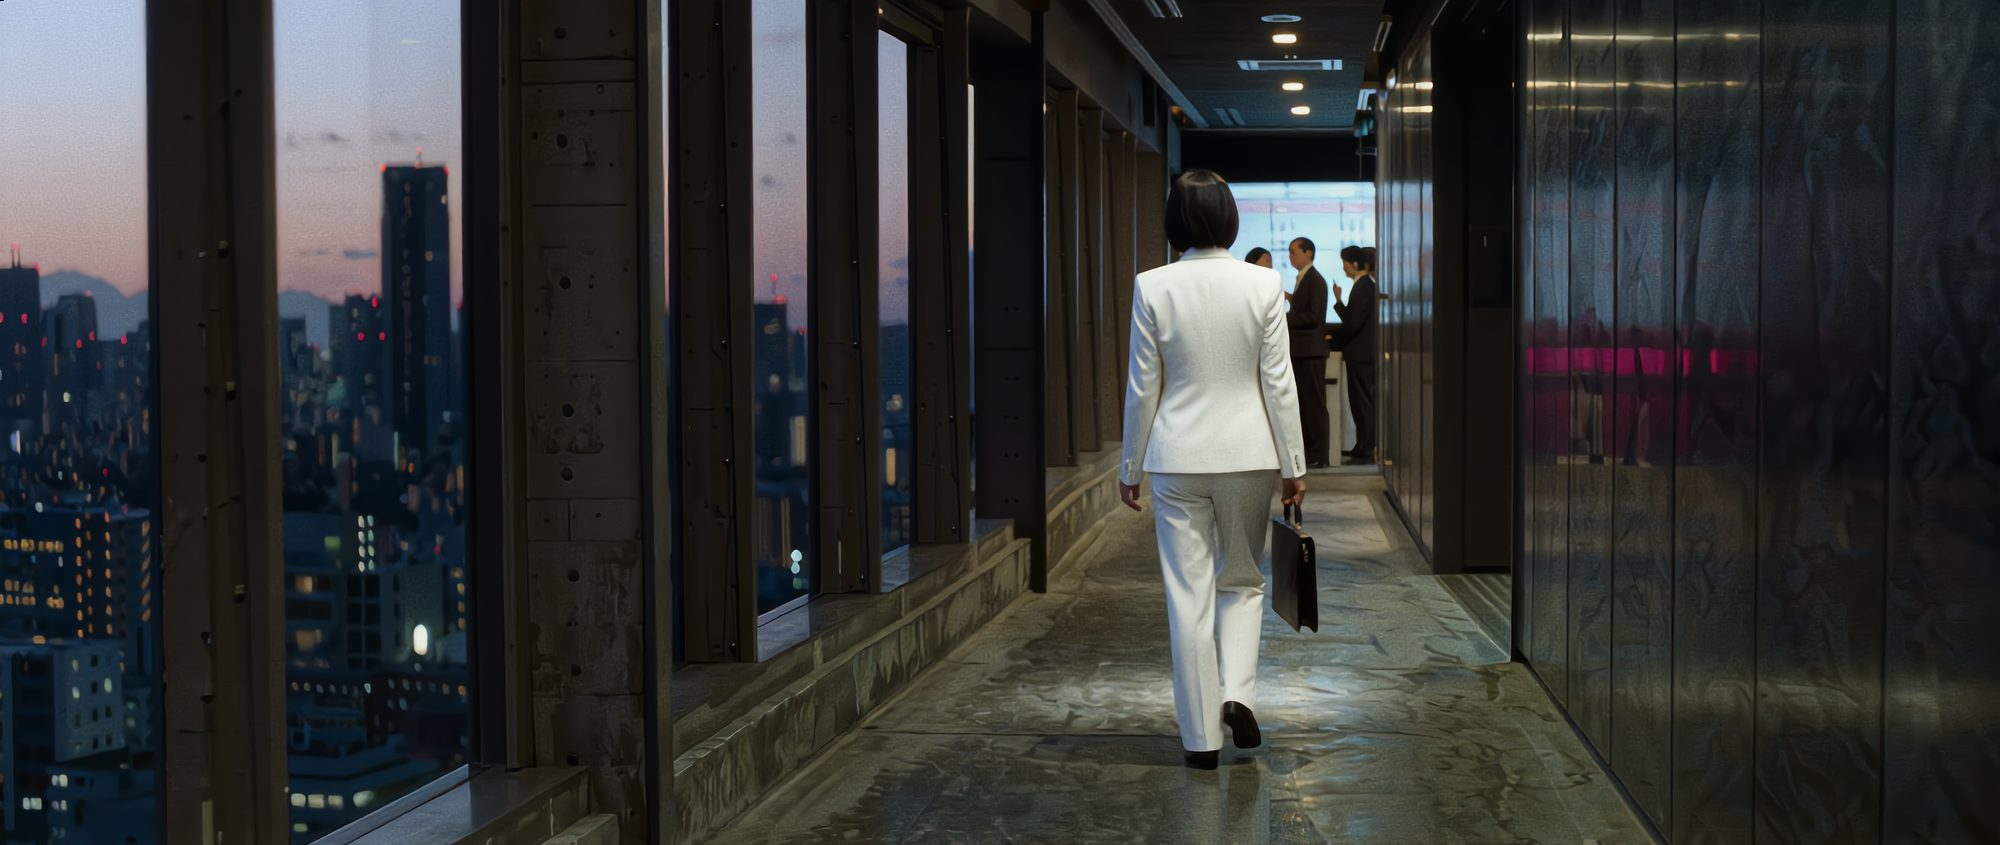
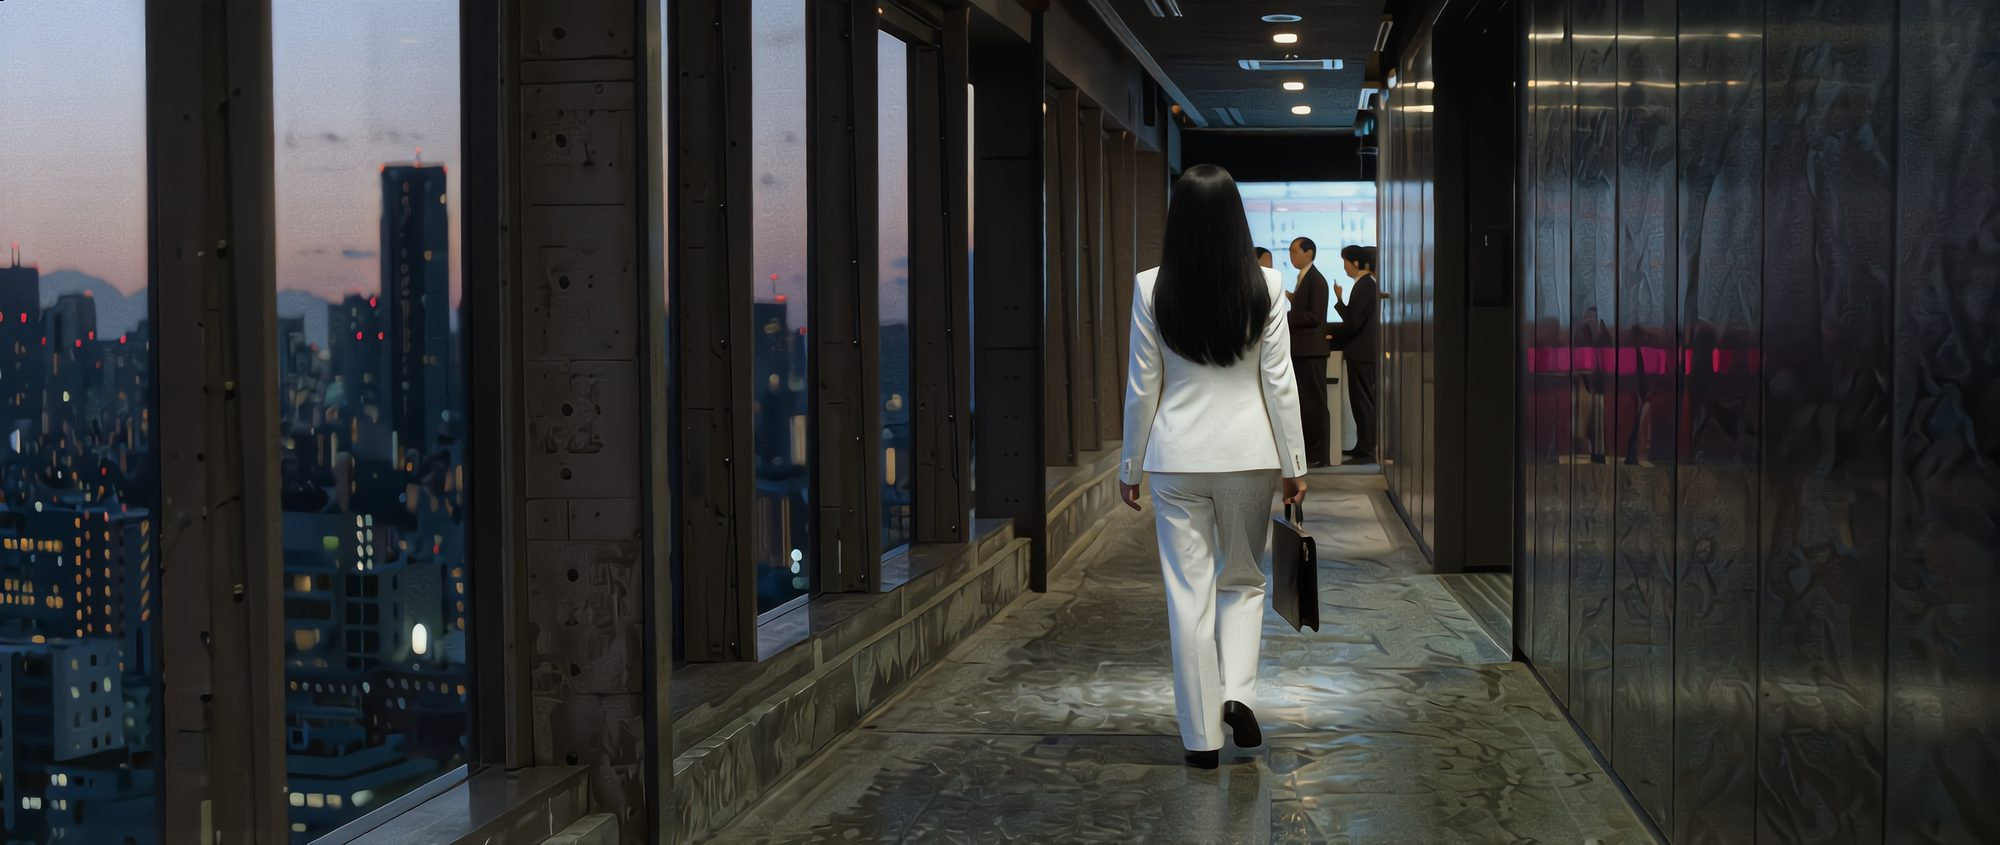
写真バンド: 女性の髪をロングに変更、見出しの一部をピンクに
- 白パンツスーツはそのまま、黒のロングヘアに(1点修正で再生成)
- 「"導入して終わり"」をブランドピンクのグラデ文字に(非対応ブラウザは実ピンク)

diff --git a/css/style.css b/css/style.css
@@ -2052,3 +2052,18 @@ main { padding-top: 68px; }
   .hero__ctas { margin-bottom: 34px; }
   .hero__badges { padding-top: 20px; gap: 10px; }
 }
+
+/* ============================================================
+   写真バンドの「"導入して終わり"」をピンクに (2026-09-01 CEO指示)
+   他のアクセント文字と同じグラデ文字。非対応ブラウザは実ピンク
+   ============================================================ */
+.photo-band__inner p .accent {
+  color: #FF5DD8;
+  background: var(--grad-text);
+  -webkit-background-clip: text;
+  background-clip: text;
+  display: inline-block;
+}
+@supports ((-webkit-background-clip: text) or (background-clip: text)) {
+  .photo-band__inner p .accent { -webkit-text-fill-color: transparent; }
+}

diff --git a/index.html b/index.html
@@ -195,7 +195,7 @@
 <section class="photo-band">
   <img src="images/photos/band.jpg" alt="" loading="lazy">
   <div class="container photo-band__inner">
-    <p>“導入して終わり”にしない。<br>成果が出るまで、現場と一緒に。</p>
+    <p><span class="accent">“導入して終わり”</span>にしない。<br>成果が出るまで、現場と一緒に。</p>
   </div>
 </section>
 
